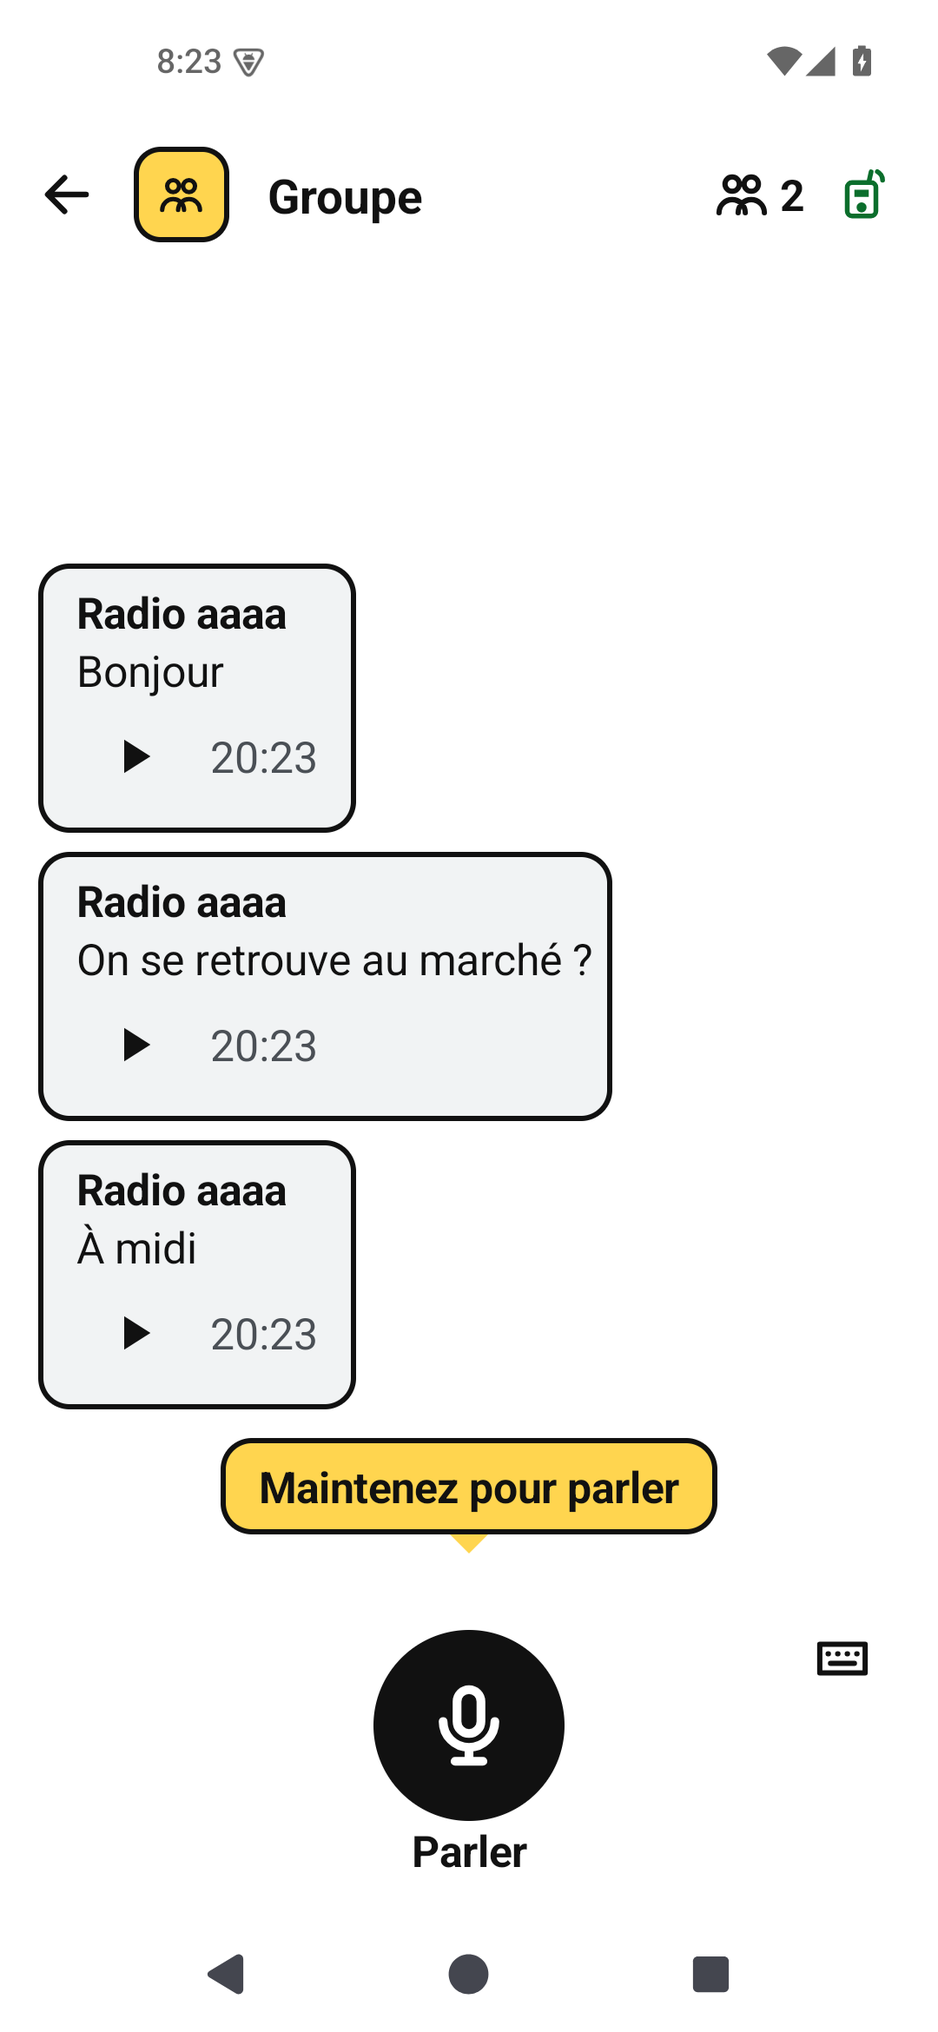
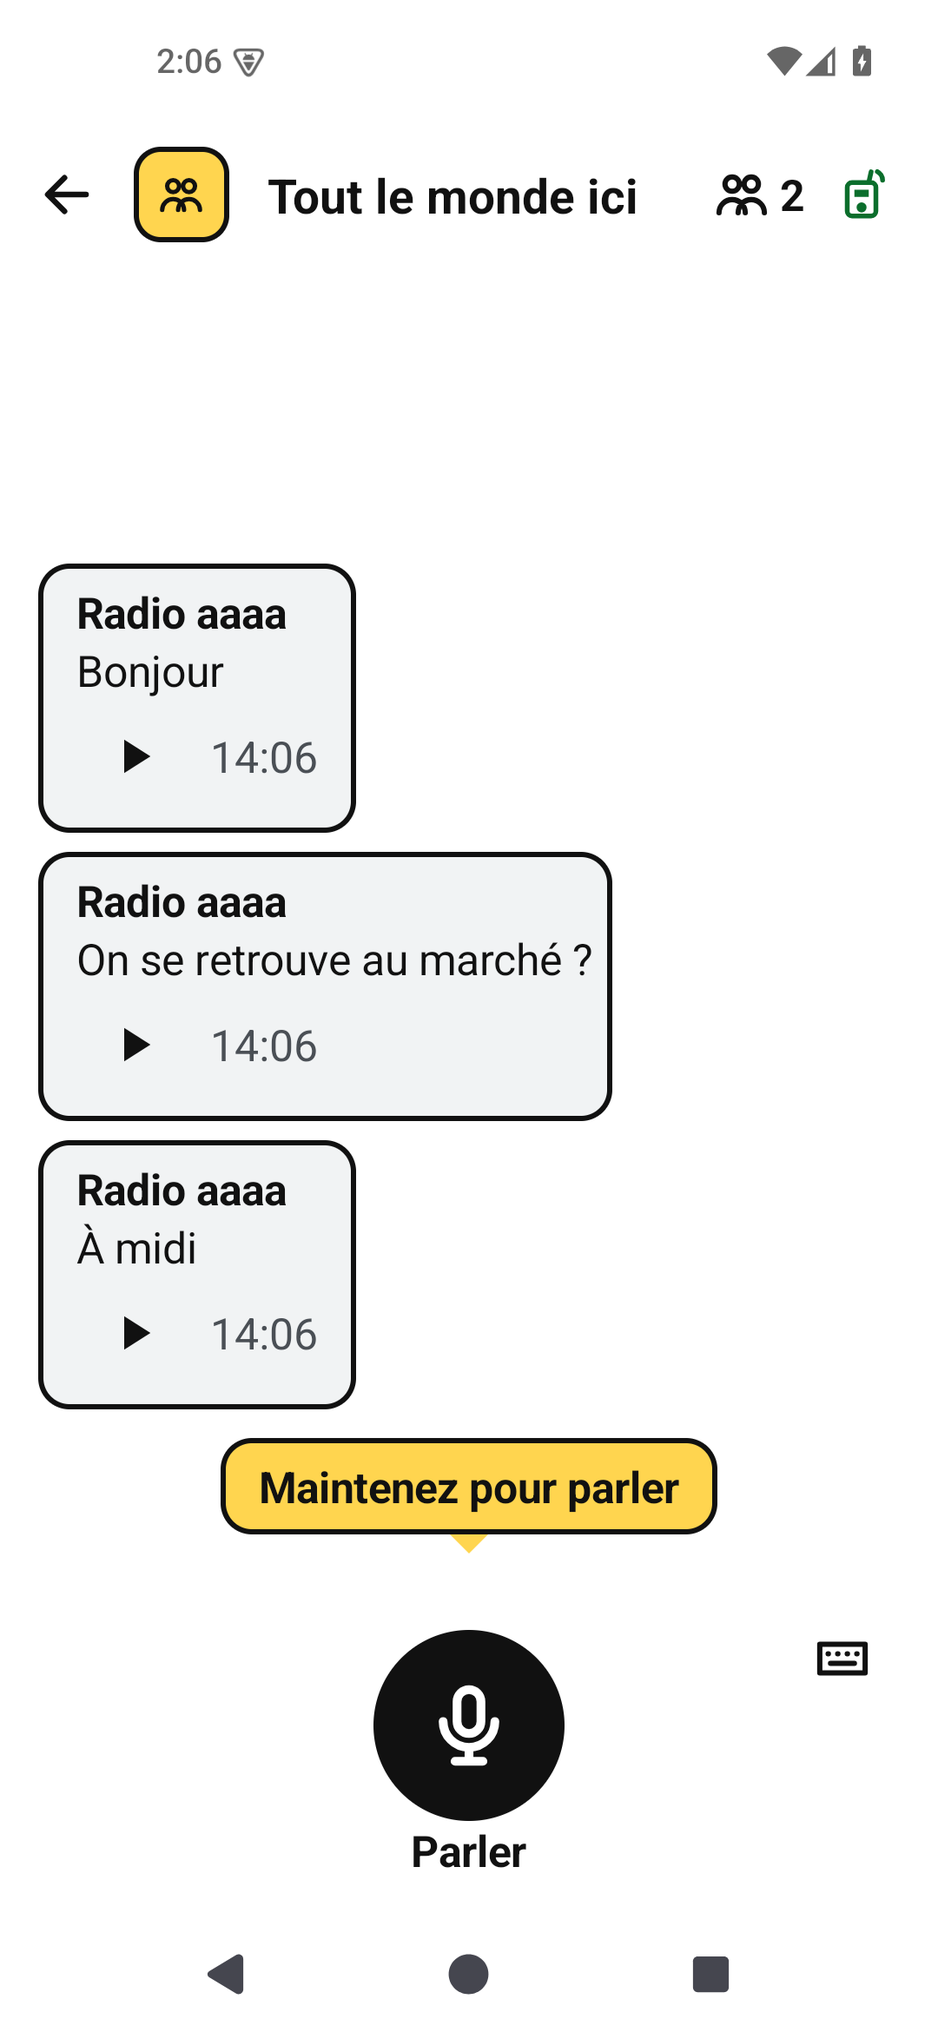
feat: name the shared chat Everyone nearby or after the radio channel
The chat that reaches every radio in range is titled Everyone nearby, or with the name the radio owner gave the primary channel, remembered per radio. Preset names such as LongFast count as no name. The chat title gets slightly smaller before it is cut on a narrow phone.

diff --git a/android/app/src/androidTest/java/org/phonemesh/app/ChatsActivityTest.kt b/android/app/src/androidTest/java/org/phonemesh/app/ChatsActivityTest.kt
@@ -79,7 +79,7 @@ class ChatsActivityTest {
         saveSetupPicture(chats, "voice-before-scroll")
         assertEquals("no chat list, no hint, no plus during setup", listOf(false, false, false), chatParts(chats))
         assertNull(Views.withText(chats, "Pas encore de messages"))
-        assertNull(Views.withText(chats, "Groupe"))
+        assertNull(Views.withText(chats, "Tout le monde ici"))
         val (content, height) = setupHeightFor(chats)
         assertTrue("the guide has a height", content > 0)
         assertEquals("the guide may use all the height it is offered", content, height)
@@ -115,7 +115,7 @@ class ChatsActivityTest {
         // The step's own button is the way into the group chat.
         Views.tap(chats, "hello_try")
         Views.waitUntil { resumedNow() is ConversationActivity }
-        assertEquals("Groupe", Views.textOf(Views.tagged(checkNotNull(Views.resumed()), "title")!!))
+        assertEquals("Tout le monde ici", Views.textOf(Views.tagged(checkNotNull(Views.resumed()), "title")!!))
         Views.finish(Views.resumed())
         Views.waitUntil { resumedNow() === chats }
         assertEquals("still setup: nothing was sent", listOf(false, false, false), chatParts(chats))
@@ -288,12 +288,53 @@ class ChatsActivityTest {
         assertEquals(listOf("chat:$group", "chat:$direct"), list)
         assertEquals("3", Views.textOf(Views.tagged(chats, "people:$group")!!))
         assertEquals("Personnes entendues : 3", Views.tagged(chats, "people:$group")!!.contentDescription)
-        assertNotNull(Views.withText(chats, "Groupe"))
+        assertNotNull(Views.withText(chats, "Tout le monde ici"))
         assertNotNull(Views.withText(chats, "Ama : Salut"))
         assertNotNull(Views.withText(chats, "Kofi"))
         assertEquals("En attente", Views.tagged(chats, "last_status:$direct")!!.contentDescription)
         assertEquals("2", Views.textOf(Views.tagged(chats, "unread:$group")!!))
         assertEquals("Non lus : 2", Views.tagged(chats, "unread:$group")!!.contentDescription)
+    }
+
+    @Test fun theGroupRowShowsItsWholeTitleOnANarrowPhoneAndTakesTheChannelName() {
+        TestCore.install(connected = false)
+        // After setup: during it the chats screen shows only the steps.
+        TestCore.onMain { core.settings.firstMessageSent = true; core.settings.setupFinished = true }
+        // A message heard: the row is at its fullest, with a time and an unread count beside the title.
+        TestCore.onMain { TestCore.radio.receive("!0000bbbb", "[pm1:fr] Salut", false) }
+        val group = TestCore.onMain { core.groupChatId() }
+        val chats = start()
+        val row = Views.tagged(chats, "chat:$group")!!
+        assertEquals("Tout le monde ici", row.contentDescription)
+        val title = Views.withText(chats, "Tout le monde ici")!!
+        assertTrue(Ui.isContent(title))
+        // Laid out again as on a 360 dp wide phone: one line, no letter cut, the people count whole beside it.
+        TestCore.onMain {
+            val people = Views.descendants(row).first { it.tag == "people:$group" }
+            val width = Ui.dp(context, 360)
+            val peopleWide = people.width
+            row.measure(android.view.View.MeasureSpec.makeMeasureSpec(width, android.view.View.MeasureSpec.EXACTLY),
+                android.view.View.MeasureSpec.makeMeasureSpec(0, android.view.View.MeasureSpec.UNSPECIFIED))
+            row.layout(0, 0, width, row.measuredHeight)
+            assertEquals(1, title.lineCount)
+            assertEquals("nothing cut", 0, title.layout.getEllipsisCount(0))
+            assertTrue(peopleWide > 0)
+            assertEquals("the people count keeps its width", peopleWide, people.width)
+            val line = people.parent as android.view.View
+            val beside = (row as android.view.ViewGroup).let { it.getChildAt(it.childCount - 1) }
+            assertTrue("the people count stays inside its line", people.right <= line.width)
+            assertTrue("the time and unread count stay inside the row", beside.width > 0 && beside.right <= width - row.paddingRight)
+            row.requestLayout()
+        }
+        TestCore.onMain {
+            core.connect("AA:BB:CC:DD:EE:01", "Kofi")
+            TestCore.radio.channelName = "Marché"
+            TestCore.radio.connected(true)
+        }
+        inst.waitForIdleSync()
+        assertEquals("Marché", Views.tagged(chats, "chat:$group")!!.contentDescription)
+        assertNotNull(Views.withText(chats, "Marché"))
+        assertNull(Views.withText(chats, "Tout le monde ici"))
     }
 
     @Test fun unreadClearsWhenTheChatIsOpened() {

diff --git a/android/app/src/androidTest/java/org/phonemesh/app/ConversationActivityTest.kt b/android/app/src/androidTest/java/org/phonemesh/app/ConversationActivityTest.kt
@@ -42,6 +42,54 @@ class ConversationActivityTest {
     private fun open(chatId: Long): ConversationActivity =
         Views.launch<ConversationActivity>(ConversationActivity.intent(context, chatId)).also { activity = it }
 
+    /** The top bar laid out again as on a 360 dp wide phone: the title's lines and cut letters, with the other parts checked whole. */
+    private fun titleAt360(a: Activity): Pair<Int, Int> = TestCore.onMain {
+        val title = Views.descendants(a.window.decorView).first { it.tag == "title" } as android.widget.TextView
+        val people = Views.descendants(a.window.decorView).first { it.tag == "people" }
+        val radio = Views.descendants(a.window.decorView).first { it.tag == "radio_status" }
+        val bar = title.parent as View
+        val width = Ui.dp(context, 360)
+        val (peopleWide, radioWide) = people.width to radio.width
+        bar.measure(View.MeasureSpec.makeMeasureSpec(width, View.MeasureSpec.EXACTLY), View.MeasureSpec.makeMeasureSpec(0, View.MeasureSpec.UNSPECIFIED))
+        bar.layout(0, 0, width, bar.measuredHeight)
+        assertTrue("the people count is shown", people.isShown && peopleWide > 0)
+        assertEquals("the people count keeps its width", peopleWide, people.width)
+        assertEquals("the radio icon keeps its width", radioWide, radio.width)
+        assertTrue("title, people count, radio icon, in that order and inside the bar: ${title.right} ${people.left} ${people.right} ${radio.left} ${radio.right} $width",
+            title.right <= people.left && people.right <= radio.left && radio.right <= width)
+        val result = title.lineCount to title.layout.getEllipsisCount(0)
+        val sp = context.resources.displayMetrics.scaledDensity
+        assertTrue("letters no smaller than body text: ${title.textSize}", title.textSize >= Ui.BODY_SP * sp - 0.5f)
+        // With room again the letters are full size again.
+        val wide = Ui.dp(context, 600)
+        bar.measure(View.MeasureSpec.makeMeasureSpec(wide, View.MeasureSpec.EXACTLY), View.MeasureSpec.makeMeasureSpec(0, View.MeasureSpec.UNSPECIFIED))
+        bar.layout(0, 0, wide, bar.measuredHeight)
+        assertEquals(20f * sp, title.textSize, 0.5f)
+        bar.requestLayout()
+        result
+    }
+
+    @Test fun theGroupTitleFitsANarrowPhoneAndALongChannelNameIsCutAtItsEnd() {
+        TestCore.install(connected = false)
+        val group = TestCore.onMain { core.groupChatId() }
+        val a = open(group)
+        val title = Views.tagged(a, "title")!!
+        assertEquals("Tout le monde ici", Views.textOf(title))
+        assertEquals("one line, nothing cut", 1 to 0, titleAt360(a))
+        // The radio's owner named the channel: the open chat takes the name when the radio connects.
+        TestCore.onMain {
+            core.connect("AA:BB:CC:DD:EE:01", "Kofi")
+            TestCore.radio.channelName = "Marché de Kpalimé et les villages autour"
+            TestCore.radio.connected(true)
+        }
+        inst.waitForIdleSync()
+        assertEquals("Marché de Kpalimé et les villages autour", Views.textOf(title))
+        assertTrue("written by people: exempt from the word rules", Ui.isContent(title))
+        val (lines, cut) = titleAt360(a)
+        assertEquals(1, lines)
+        assertTrue("cut at the end", cut > 0)
+    }
+
     @Test fun aCutDraftSaysSoAndCanStillBeSent() {
         TestCore.install()
         val group = TestCore.onMain { core.groupChatId() }

diff --git a/android/radio-ble/src/test/kotlin/org/phonemesh/ble/MeshtasticProtocolTest.kt b/android/radio-ble/src/test/kotlin/org/phonemesh/ble/MeshtasticProtocolTest.kt
@@ -5,6 +5,7 @@ import org.junit.Assert.assertEquals
 import org.junit.Assert.assertNull
 import org.junit.Assert.assertTrue
 import org.junit.Test
+import org.meshtastic.proto.ChannelProtos
 import org.meshtastic.proto.MeshProtos
 import org.meshtastic.proto.Portnums
 
@@ -131,6 +132,37 @@ class MeshtasticProtocolTest {
         assertNull("no own number yet", MeshtasticProtocol.ownName(record(0x8d88, "Meshtastic 8d88"), null, null))
         assertNull("a record with no name is not a name", MeshtasticProtocol.ownName(record(0x8d88, " "), 0x8d88L, "Old"))
         assertEquals("the short name, as chats show it", "8d88", MeshtasticProtocol.ownName(record(0x8d88, "", "8d88"), 0x8d88L, null))
+    }
+
+    @Test
+    fun channelNameIsOnlyANameTheOwnerChose() {
+        assertEquals("Marché", MeshtasticProtocol.channelName("Marché"))
+        assertEquals("Marché", MeshtasticProtocol.channelName(" Marché "))
+        assertNull("Meshtastic's default channel has no name", MeshtasticProtocol.channelName(""))
+        assertNull(MeshtasticProtocol.channelName("  "))
+        val presets = listOf(
+            "LongFast", "LongSlow", "MediumFast", "MediumSlow", "ShortFast", "ShortSlow", "ShortTurbo", "LongModerate", "VeryLongSlow", "LongTurbo",
+        )
+        for (preset in presets) {
+            assertNull(preset, MeshtasticProtocol.channelName(preset))
+            assertNull(preset, MeshtasticProtocol.channelName(preset.uppercase()))
+            assertNull(preset, MeshtasticProtocol.channelName(" ${preset.lowercase()} "))
+        }
+        assertEquals("a name that only begins like a preset is a name", "LongFast2", MeshtasticProtocol.channelName("LongFast2"))
+        assertEquals("Fast", MeshtasticProtocol.channelName("Fast"))
+    }
+
+    @Test
+    fun onlyThePrimaryChannelRecordNamesTheGroup() {
+        fun record(index: Int, name: String) = MeshtasticProtocol.parseFromRadio(
+            MeshProtos.FromRadio.newBuilder().setChannel(
+                ChannelProtos.Channel.newBuilder().setIndex(index).setSettings(ChannelProtos.ChannelSettings.newBuilder().setName(name)),
+            ).build(),
+        )
+        assertEquals(RadioEvent.PrimaryChannel("Marché"), record(0, "Marché"))
+        assertEquals(RadioEvent.PrimaryChannel(null), record(0, ""))
+        assertEquals(RadioEvent.PrimaryChannel(null), record(0, "LongFast"))
+        assertNull("another channel is not the group", record(1, "Admin"))
     }
 
     @Test

diff --git a/android/radio-ble/src/main/kotlin/org/phonemesh/ble/MeshtasticProtocol.kt b/android/radio-ble/src/main/kotlin/org/phonemesh/ble/MeshtasticProtocol.kt
@@ -120,6 +120,8 @@ internal object MeshtasticProtocol {
             MeshProtos.FromRadio.PayloadVariantCase.CONFIG_COMPLETE_ID -> RadioEvent.ConfigComplete(fromRadio.configCompleteId)
             MeshProtos.FromRadio.PayloadVariantCase.MY_INFO -> RadioEvent.MyInfo(fromRadio.myInfo.myNodeNum)
             MeshProtos.FromRadio.PayloadVariantCase.NODE_INFO -> nodeInfoEvent(fromRadio.nodeInfo)
+            MeshProtos.FromRadio.PayloadVariantCase.CHANNEL ->
+                if (fromRadio.channel.index == 0) RadioEvent.PrimaryChannel(channelName(fromRadio.channel.settings.name)) else null
             MeshProtos.FromRadio.PayloadVariantCase.CONFIG ->
                 if (fromRadio.config.hasLora()) RadioEvent.LoraSettings(fromRadio.config.lora) else null
             MeshProtos.FromRadio.PayloadVariantCase.QUEUESTATUS -> RadioEvent.QueueStatus(
@@ -148,6 +150,14 @@ internal object MeshtasticProtocol {
      */
     fun ownName(event: RadioEvent.NodeDiscovered, local: Long?, known: String?): String? =
         if (event.nodeNum != local) known else event.name.takeIf { it != event.id }
+
+    /**
+     * A channel's name when the radio's owner chose one. Blank is Meshtastic's default channel, which apps show as
+     * the radio preset ("LongFast", "MediumSlow", ...); a name that is just a preset counts as none too.
+     */
+    fun channelName(name: String): String? = name.trim().takeIf { it.isNotEmpty() && !presetName.matches(it) }
+
+    private val presetName = Regex("(very)?(long|medium|short)(fast|slow|moderate|turbo)", RegexOption.IGNORE_CASE)
 
     private fun packetEvent(packet: MeshProtos.MeshPacket): RadioEvent? {
         if (!packet.hasDecoded()) return null
@@ -237,6 +247,7 @@ internal sealed class RadioEvent {
     data class MyInfo(val nodeNum: Int) : RadioEvent()
     data class LoraSettings(val lora: ConfigProtos.Config.LoRaConfig) : RadioEvent()
     data class AdminLora(val from: Long, val lora: ConfigProtos.Config.LoRaConfig?, val passkey: ByteString) : RadioEvent()
+    data class PrimaryChannel(val name: String?) : RadioEvent()
     data class NodeDiscovered(val nodeNum: Long, val id: String, val name: String) : RadioEvent()
     data class Text(val sender: String, val text: String, val channel: Int, val to: Long) : RadioEvent()
     data class QueueStatus(val res: Int, val free: Int, val maxlen: Int, val meshPacketId: Int) : RadioEvent()

diff --git a/android/app/src/androidTest/java/org/phonemesh/app/AppCoreTest.kt b/android/app/src/androidTest/java/org/phonemesh/app/AppCoreTest.kt
@@ -147,6 +147,28 @@ class AppCoreTest {
         assertEquals(2, core.history.messages(chat.id).size)
     }
 
+    @Test fun theGroupIsEveryoneNearbyUntilTheRadioNamesItsChannel() {
+        TestCore.install(language = "en", connected = false)
+        fun title() = main { core.chatTitle(core.history.chat(core.groupChatId())!!) }
+        assertEquals("Everyone nearby", title())
+        main { core.settings.language = "fr" }
+        assertEquals("no radio yet", "Tout le monde ici", title())
+        main { core.connect("AA:BB:CC:DD:EE:01", "Kofi"); radio.channelName = "Marché"; radio.connected(true) }
+        assertEquals("Marché", title())
+        assertEquals("Marché", main { core.chatRows().single().title })
+        main { radio.connected(false) }
+        assertEquals("kept while the radio is away", "Marché", title())
+        TestCore.restart()
+        assertEquals("kept when the app starts without it", "Marché", title())
+        // Another radio has its own channel; one that names none shows the plain title, also after it had a name.
+        main { core.connect("AA:BB:CC:DD:EE:02", "Ama"); radio.channelName = null; radio.connected(true) }
+        assertEquals("Tout le monde ici", title())
+        main { radio.connected(false); core.connect("AA:BB:CC:DD:EE:01", "Kofi") }
+        assertEquals("Marché", title())
+        main { radio.channelName = null; radio.connected(true) }
+        assertEquals("the owner took the name away", "Tout le monde ici", title())
+    }
+
     /** Review Focus 3, and the history surviving a restart. */
     @Test fun waitingMessagesBecomeUnconfirmedAfterARestart() {
         TestCore.install()

diff --git a/android/radio-ble/src/main/kotlin/org/phonemesh/ble/BleMeshTransport.kt b/android/radio-ble/src/main/kotlin/org/phonemesh/ble/BleMeshTransport.kt
@@ -107,6 +107,7 @@ class BleMeshTransport(
     @Volatile private var negotiatedMtu = DEFAULT_ATT_MTU
     @Volatile private var localNodeNum: Int? = null
     @Volatile private var ownName: String? = null
+    @Volatile private var channelName: String? = null
     @Volatile private var configuredHopLimit: Int? = null
     private var drainInProgress = false
     private var drainAgain = false
@@ -420,6 +421,8 @@ class BleMeshTransport(
 
     override fun ownName(): String? = ownName
 
+    override fun channelName(): String? = channelName
+
     override fun disconnect() {
         checkOpen()
         stopScan()
@@ -702,6 +705,7 @@ class BleMeshTransport(
                 }
             }
             is RadioEvent.AdminLora -> regions.onReply(event)
+            is RadioEvent.PrimaryChannel -> channelName = event.name
             is RadioEvent.NodeDiscovered -> {
                 val peer = RadioPeer(event.id, event.name)
                 ownName = MeshtasticProtocol.ownName(event, localNodeNum?.toLong()?.and(MeshtasticProtocol.BROADCAST_NUM), ownName)
@@ -786,6 +790,7 @@ class BleMeshTransport(
         regions.reset()
         localNodeNum = null
         ownName = null
+        channelName = null
         configuredHopLimit = null
         synchronized(peersById) { peersById.clear() }
         postPeersChanged()

diff --git a/android/app/src/main/java/org/phonemesh/app/Settings.kt b/android/app/src/main/java/org/phonemesh/app/Settings.kt
@@ -81,6 +81,15 @@ class Settings(context: Context, name: String = PREFS) : RegionMemory {
         edit.apply()
     }
 
+    /** The name this radio's owner gave its primary channel, learned when it connected; null for Meshtastic's default channel. */
+    fun radioChannelName(address: String): String? = prefs.getString(RADIO_CHANNEL_NAME + address, null)
+
+    fun setRadioChannelName(address: String, name: String?) {
+        val edit = prefs.edit()
+        if (name == null) edit.remove(RADIO_CHANNEL_NAME + address) else edit.putString(RADIO_CHANNEL_NAME + address, name)
+        edit.apply()
+    }
+
     /** A helper chose this radio's region: a country guess never offers to change it. */
     override fun helperSet(address: String): Boolean = address in prefs.getStringSet(HELPER_SET, null).orEmpty()
 
@@ -115,6 +124,7 @@ class Settings(context: Context, name: String = PREFS) : RegionMemory {
         private const val KEPT = "keptRegions."
         private const val RADIO_COUNTRY = "radioCountry."
         private const val RADIO_OWN_NAME = "radioOwnName."
+        private const val RADIO_CHANNEL_NAME = "radioChannelName."
         private const val HELPER_SET = "helperSet"
         internal const val MIGRATED = "migrated"
     }

diff --git a/android/app/src/main/java/org/phonemesh/app/AppCore.kt b/android/app/src/main/java/org/phonemesh/app/AppCore.kt
@@ -311,6 +311,8 @@ class AppCore private constructor(
         if (becameReady) endAttempt()
         readyAddress = if (becameReady) settings.radioAddress else readyAddress.takeIf { connected }
         if (becameReady) rememberOwnName(fresh = true)
+        // The handshake that made it ready carried its channels: the group takes the primary one's name, or loses it.
+        if (becameReady) readyAddress?.let { settings.setRadioChannelName(it, radio.channelName()) }
         // Only a real change of the link reaches the region check: ready means a new handshake has finished.
         if (becameReady) region.onReady()
         if (was && !connected) region.onLost()
@@ -381,8 +383,9 @@ class AppCore private constructor(
 
     // ---- Chats
 
+    /** The group is named after the chosen radio's primary channel when its owner named it, as that radio last reported. */
     fun chatTitle(chat: Chat): String = when {
-        chat.kind == ChatKind.GROUP -> text(UiText(R.string.group_name))
+        chat.kind == ChatKind.GROUP -> settings.radioAddress?.let { settings.radioChannelName(it) } ?: text(UiText(R.string.group_name))
         chat.name.isNotBlank() -> chat.name
         else -> text(unnamedRadio(chat.address))
     }

diff --git a/android/app/src/main/java/org/phonemesh/app/ConversationActivity.kt b/android/app/src/main/java/org/phonemesh/app/ConversationActivity.kt
@@ -14,6 +14,7 @@ import android.text.InputType
 import android.text.TextUtils
 import android.text.TextWatcher
 import android.text.format.DateFormat
+import android.util.TypedValue
 import android.view.Gravity
 import android.view.MotionEvent
 import android.view.View
@@ -155,8 +156,11 @@ class ConversationActivity : ScreenActivity() {
             tag = "title"
             maxLines = 1
             ellipsize = TextUtils.TruncateAt.END
+            gravity = Gravity.CENTER_VERTICAL
+            // A narrow phone gets smaller letters before any are cut; the bar's own height lets them grow back.
+            setAutoSizeTextTypeUniformWithConfiguration(Ui.BODY_SP.toInt(), 20, 1, TypedValue.COMPLEX_UNIT_SP)
         })
-        bar.addView(title, LinearLayout.LayoutParams(0, LinearLayout.LayoutParams.WRAP_CONTENT, 1f).apply { marginStart = pad() })
+        bar.addView(title, LinearLayout.LayoutParams(0, LinearLayout.LayoutParams.MATCH_PARENT, 1f).apply { marginStart = pad() })
         people = Looks.peopleBadge(this, palette).apply { tag = "people" }
         bar.addView(people)
         radioStatus = ImageView(this).apply {

diff --git a/android/app/src/androidTest/java/org/phonemesh/app/FakeRadio.kt b/android/app/src/androidTest/java/org/phonemesh/app/FakeRadio.kt
@@ -35,6 +35,9 @@ class FakeRadio(private val listener: MeshRadio.Listener) : MeshRadio {
     /** The name the fake radio announces for itself while ready. */
     var ownName: String? = null
     override fun ownName(): String? = if (ready) ownName else null
+    /** The name the fake radio's owner gave its primary channel, read while ready. */
+    var channelName: String? = null
+    override fun channelName(): String? = if (ready) channelName else null
     override fun send(text: String, destinationId: String, channel: Int): Long {
         check(ready) { "Meshtastic radio is not ready" }
         val id = nextPacket++

diff --git a/android/radio-ble/src/main/kotlin/org/phonemesh/ble/MeshRadio.kt b/android/radio-ble/src/main/kotlin/org/phonemesh/ble/MeshRadio.kt
@@ -51,6 +51,9 @@ interface MeshRadio : AutoCloseable {
     /** The name the connected radio announces for itself, the one other radios show; null while away or when it has none. */
     fun ownName(): String?
 
+    /** The name the connected radio's owner gave its primary channel; null while away or when it is Meshtastic's default channel. */
+    fun channelName(): String?
+
     /** The radio's region from the handshake: "UNSET", a region name, "UNRECOGNIZED", or null before it arrives. */
     fun region(): String?
 
